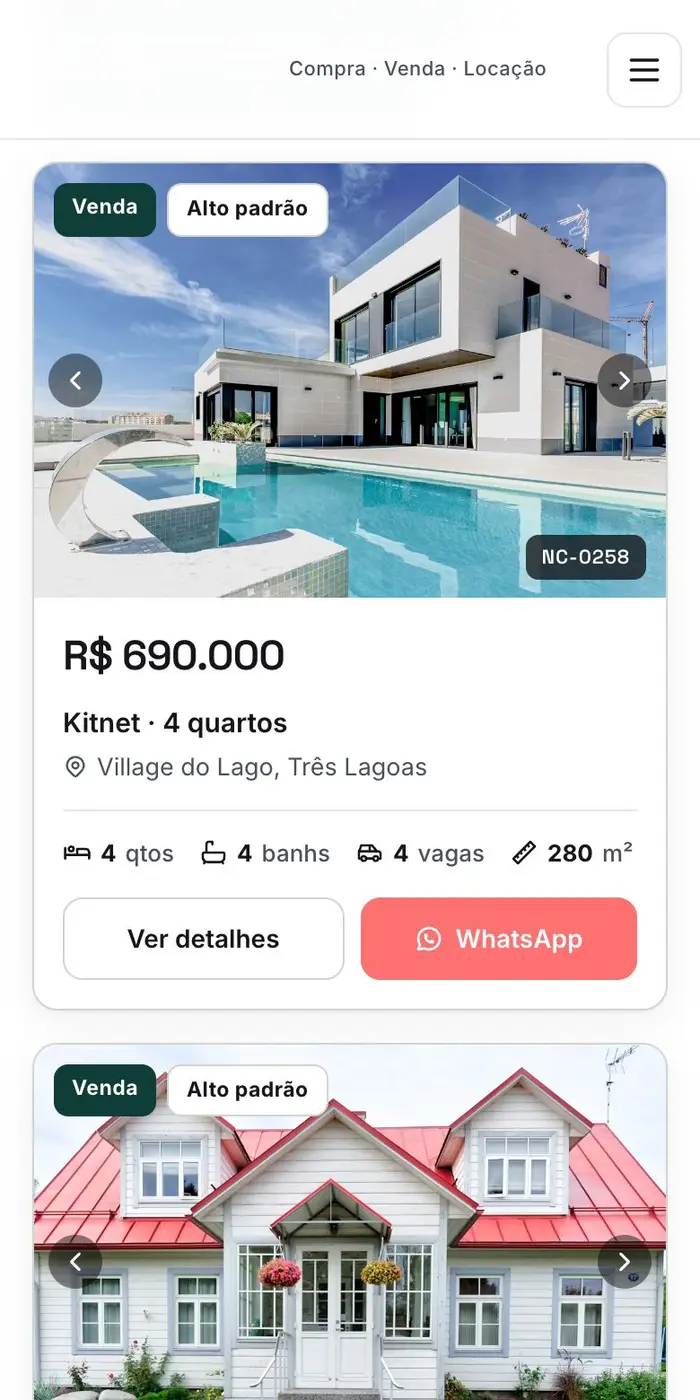
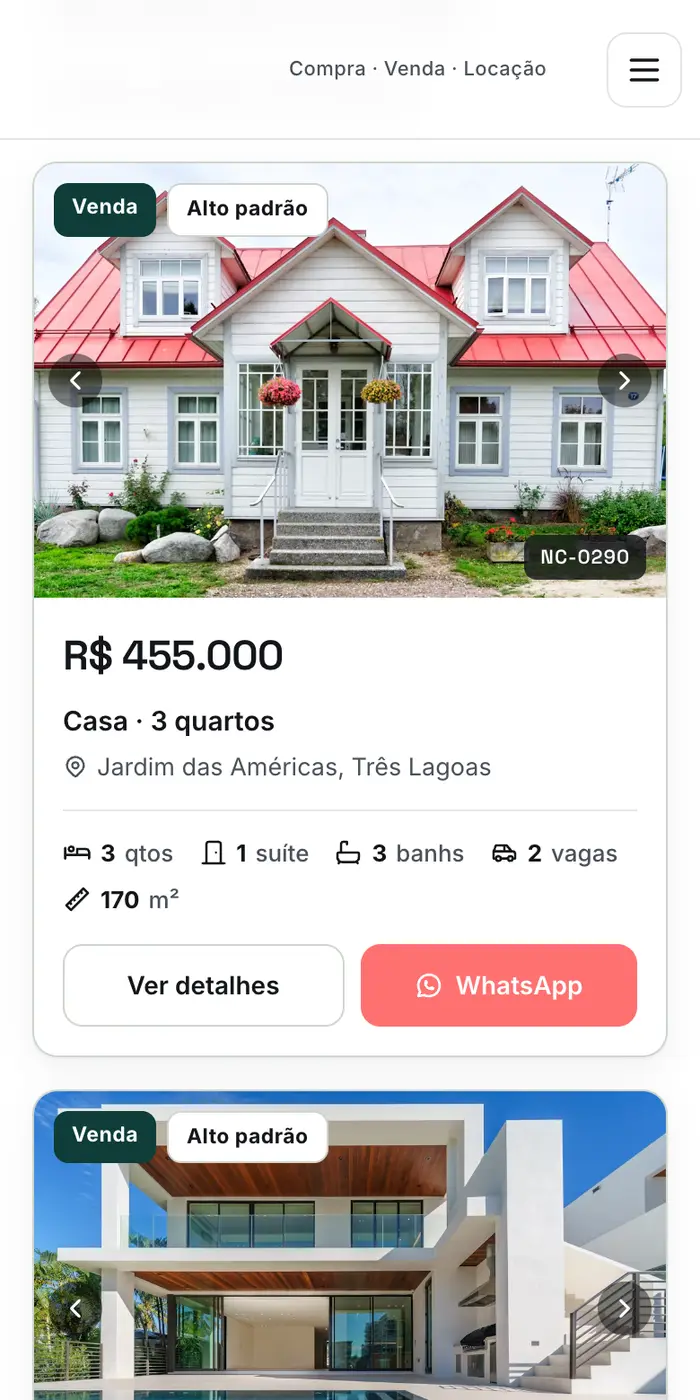
fix(landing): prints da demo refeitos depois de corrigir os imóveis
O primeiro card da demo aparecia como "Kitnet · 4 quartos": o NC-0258 é um
sobrado de 280 m², cadastrado com o tipo errado. O print estava no hero e no
notebook da landing, então o erro ia para a primeira tela de quem chega.

Os dados da demo foram corrigidos no banco (tipos de NC-0244, NC-0258 e
NC-0281, suítes de NC-0290, NC-0339 e NC-0351, descrições) e os cinco prints
foram tirados de novo da demo em produção. O `height` do print do imóvel
acompanha o novo recorte, para o espaço reservado bater com a imagem.

diff --git a/app/components/MoradiLanding.vue b/app/components/MoradiLanding.vue
@@ -322,7 +322,7 @@ useSeoMeta({
                 <div class="screen"><img src="/moradi/print-catalogo.webp" alt="Catálogo do site de demonstração no computador, com cards de imóveis e filtros" width="1400" height="532" loading="lazy" decoding="async"></div>
                 <div class="base" />
               </div>
-              <div class="phone"><img src="/moradi/print-imovel.webp" alt="Página de um imóvel no celular, com preço, fotos e botão Tenho interesse" width="700" height="1515" loading="lazy" decoding="async"></div>
+              <div class="phone"><img src="/moradi/print-imovel.webp" alt="Página de um imóvel no celular, com preço, fotos e botão Tenho interesse" width="700" height="1371" loading="lazy" decoding="async"></div>
             </div>
             <div class="notes">
               <div><i>BUSCA</i><b>O cliente filtra, não rola feed</b><span>Tipo, bairro, faixa de preço e quartos, rápido no celular e sem recarregar a página.</span></div>
